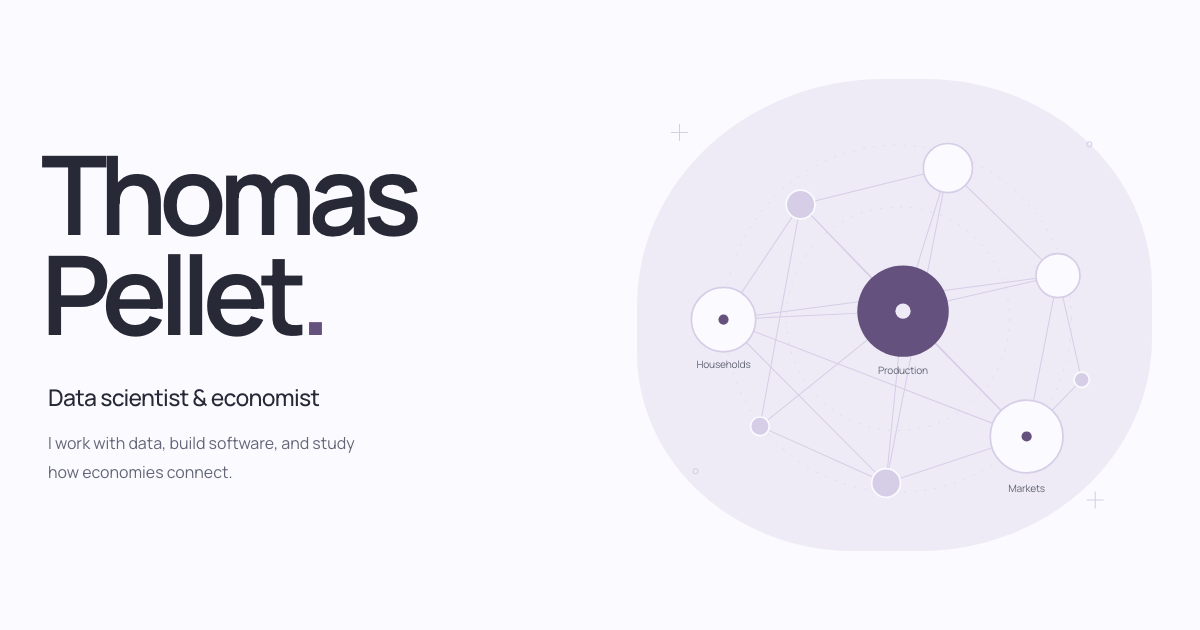
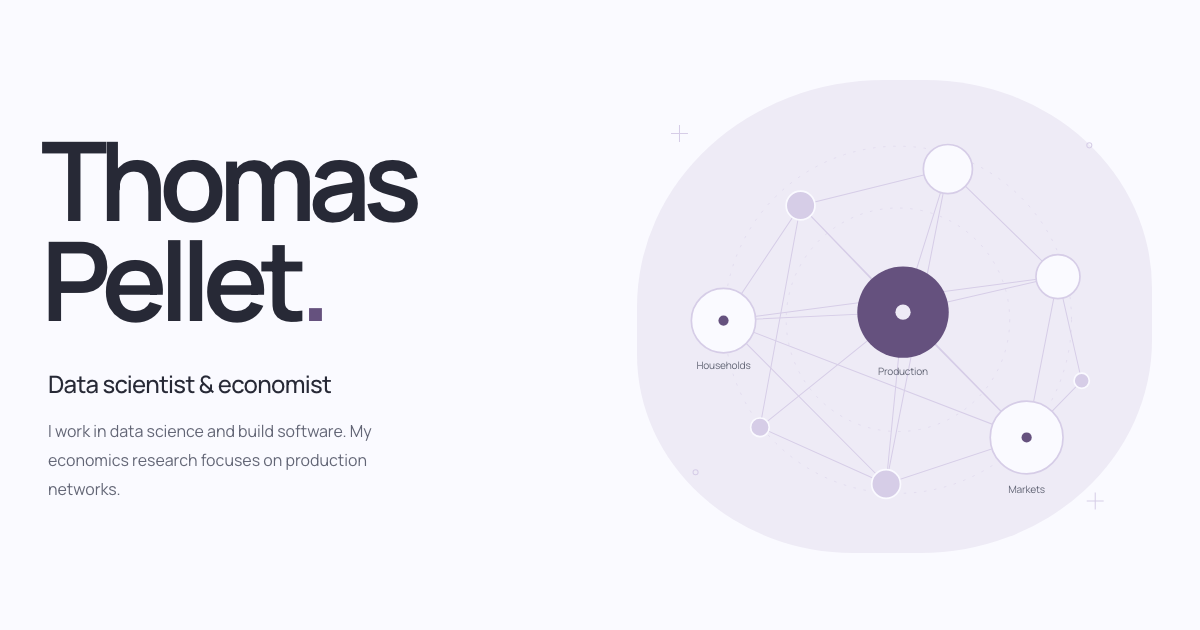
feat: feature Proofwise and revise portfolio copy (site-56m)

diff --git a/themes/minimal-portfolio/static/css/style.css b/themes/minimal-portfolio/static/css/style.css
@@ -21,6 +21,7 @@
   --line: #dedee8;
   --lavender: #eeebf6;
   --sage: #e8eeeb;
+  --rose: #f4e8ed;
   --node: #d6cde7;
   --core: #65517e;
   --font: 'Manrope', -apple-system, BlinkMacSystemFont, 'Segoe UI', sans-serif;
@@ -36,6 +37,7 @@
   --line: #393b4b;
   --lavender: #282536;
   --sage: #242e2d;
+  --rose: #33252c;
   --node: #51455f;
   --core: #cab7eb;
 }
@@ -49,6 +51,7 @@
     --line: #393b4b;
     --lavender: #282536;
     --sage: #242e2d;
+    --rose: #33252c;
     --node: #51455f;
     --core: #cab7eb;
   }
@@ -131,6 +134,13 @@ h2 { font-size: clamp(28px, 3.4vw, 42px); }
 .projects-grid { display: grid; grid-template-columns: 1.15fr 1fr; gap: 36px; align-items: start; }
 .project-card { min-width: 0; }
 .project-visual { height: 280px; display: grid; place-items: center; padding: 28px; border-radius: 16px; overflow: hidden; }
+.project-proofwise { grid-column: 1 / -1; display: grid; grid-template-columns: 1.15fr 1fr; align-items: center; gap: 36px; }
+.project-proofwise .project-visual { background: var(--rose); }
+.proofwise-identity { display: flex; align-items: center; gap: 25px; }
+.proofwise-identity img { width: clamp(110px, 13vw, 168px); height: auto; border-radius: 24%; box-shadow: 0 10px 24px #49182c20; }
+.proofwise-name { display: block; font-size: 28px; font-weight: 650; letter-spacing: -.045em; }
+.proofwise-platform { display: block; margin-top: 8px; color: var(--muted); font-size: 12px; line-height: 1.7; }
+.project-proofwise .project-info { padding: 0 2px; }
 .project-terminal .project-visual { background: var(--lavender); }
 .project-timeline .project-visual { background: var(--sage); }
 .terminal-window { width: 100%; max-width: 460px; background: #272936; color: #f0edf8; border-radius: 10px; box-shadow: 0 10px 24px #17152220; font-family: ui-monospace, SFMono-Regular, Menlo, Consolas, monospace; font-size: 11px; line-height: 1.8; transform: rotate(-2deg); }
@@ -235,6 +245,9 @@ h2 { font-size: clamp(28px, 3.4vw, 42px); }
   .hero-description { font-size: 14px; }
   .hero-actions { gap: 18px; }
   .projects-grid { gap: 24px; }
+  .project-proofwise { gap: 24px; }
+  .proofwise-identity { gap: 18px; }
+  .proofwise-name { font-size: 23px; }
   .project-visual { height: 250px; padding: 24px; }
   .terminal-window { font-size: 9px; }
   .terminal-body { padding: 16px; }
@@ -264,6 +277,10 @@ h2 { font-size: clamp(28px, 3.4vw, 42px); }
   .section-heading h2 { font-size: 28px; max-width: 230px; }
   .section-heading p { font-size: 12px; max-width: 220px; }
   .projects-grid { grid-template-columns: 1fr; gap: 38px; }
+  .project-proofwise { display: block; }
+  .project-proofwise .project-info { padding-top: 23px; }
+  .proofwise-identity img { width: 130px; }
+  .proofwise-name { font-size: 26px; }
   .project-visual { height: 265px; padding: 28px; }
   .terminal-window { font-size: 10px; max-width: 400px; }
   .project-info h3 { font-size: 26px; }
@@ -303,6 +320,8 @@ h2 { font-size: clamp(28px, 3.4vw, 42px); }
   .hero-actions .btn { padding: 12px 14px; gap: 10px; font-size: 12px; }
   .hero-actions .text-link { font-size: 12px; }
   .project-visual { height: 230px; padding: 17px; }
+  .proofwise-identity img { width: 108px; }
+  .proofwise-name { font-size: 23px; }
   .terminal-window { font-size: 9px; }
   .terminal-body { padding: 14px; }
   .contact-link { font-size: 17px; }
@@ -325,7 +344,7 @@ h2 { font-size: clamp(28px, 3.4vw, 42px); }
   .site-header, .site-footer, .hero-actions, .network-toggle, .publication-toolbar, .resume-actions, .project-visual { display: none !important; }
   body { background: white; color: black; }
   .main-content { max-width: none; padding: 0; }
-  .hero, .research-section, .about-section, .projects-grid { display: block; }
+  .hero, .research-section, .about-section, .projects-grid, .project-proofwise { display: block; }
   .network-figure { display: none; }
   a { text-decoration: underline; }
   .project-card, .publication-entry { break-inside: avoid; margin-bottom: 24px; }

diff --git a/layouts/partials/project.html b/layouts/partials/project.html
@@ -1,12 +1,14 @@
 <article class="project-card project-{{ .visual }}">
   <div class="project-visual" aria-hidden="true">
-    {{ if eq .visual "terminal" }}
+    {{ if eq .visual "proofwise" }}
+    <div class="proofwise-identity"><img src="{{ "images/proofwise-icon.png" | relURL }}" alt="" width="1024" height="1024" loading="lazy"><div><span class="proofwise-name">Proofwise</span><span class="proofwise-platform">N-of-1 experiments<br>for iPhone</span></div></div>
+    {{ else if eq .visual "terminal" }}
     <div class="terminal-window">
       <div class="terminal-top"><span class="terminal-dots"><i></i><i></i><i></i></span><span>jevify</span><span>⌘</span></div>
-      <div class="terminal-body"><div><span class="terminal-prompt">$</span> cargo test 2&gt;&amp;1 | jevify why</div><div class="terminal-output">Compiling buildfail…</div><div class="terminal-output">300 warnings, one error.</div><div class="terminal-result"><span>›</span> error[E0425]: cannot find value<br><span class="terminal-indent">`conifg` in this scope</span></div><div class="terminal-hint">The line you were looking for.</div></div>
+      <div class="terminal-body"><div><span class="terminal-prompt">$</span> cargo test 2&gt;&amp;1 | jevify why</div><div class="terminal-output">Compiling buildfail…</div><div class="terminal-output">300 warnings, one error.</div><div class="terminal-result"><span>›</span> error[E0425]: cannot find value<br><span class="terminal-indent">`conifg` in this scope</span></div><div class="terminal-hint">Build error</div></div>
     </div>
     {{ else }}
-    <div class="edit-timeline"><div class="timeline-top"><span>DaVinci Resolve</span><span class="timeline-badge">MCP</span></div><div class="timeline-ruler"><span>00:00</span><span>00:15</span><span>00:30</span><span>00:45</span></div><div class="timeline-track track-video"><span>V1</span><i></i><i></i><i></i></div><div class="timeline-track track-audio"><span>A1</span><i></i></div><div class="timeline-playhead"></div><div class="timeline-command">Organize. Edit. Render.</div></div>
+    <div class="edit-timeline"><div class="timeline-top"><span>DaVinci Resolve</span><span class="timeline-badge">MCP</span></div><div class="timeline-ruler"><span>00:00</span><span>00:15</span><span>00:30</span><span>00:45</span></div><div class="timeline-track track-video"><span>V1</span><i></i><i></i><i></i></div><div class="timeline-track track-audio"><span>A1</span><i></i></div><div class="timeline-playhead"></div><div class="timeline-command">Editing with an AI assistant</div></div>
     {{ end }}
   </div>
   <div class="project-info">
@@ -14,6 +16,6 @@
     <h3><a href="{{ .url }}">{{ .name }}<svg class="icon" aria-hidden="true"><use href="#icon-external"/></svg></a></h3>
     <p>{{ .description }}</p>
     <ul class="project-tech" aria-label="Technologies">{{ range .tech }}<li>{{ . }}</li>{{ end }}</ul>
-    <a class="text-link" href="{{ .url }}">Explore {{ .name }} on GitHub</a>
+    <a class="text-link" href="{{ .url }}">{{ .link_label }}</a>
   </div>
 </article>

diff --git a/themes/minimal-portfolio/layouts/index.html b/themes/minimal-portfolio/layouts/index.html
@@ -3,7 +3,7 @@
   <div class="hero-copy">
     <h1 id="hero-title"><span>Thomas </span><span>Pellet<span class="name-period" aria-hidden="true">.</span></span></h1>
     <p class="hero-role">Data scientist &amp; economist</p>
-    <p class="hero-description">I work with data, build software, and study how economies connect.</p>
+    <p class="hero-description">I work in data science and build software. My economics research focuses on production networks.</p>
     <div class="hero-actions"><a class="btn btn-primary" href="#software">Explore my work<svg class="icon" aria-hidden="true"><use href="#icon-arrow"/></svg></a><a class="text-link" href="{{ "resume/" | relURL }}">View résumé</a></div>
     <p class="hero-note">Cubist Systematic Strategies<br>PhD in Economics, Northwestern University</p>
   </div>
@@ -11,7 +11,7 @@
 </section>
 
 <section class="software-section" id="software" aria-labelledby="software-title">
-  <div class="section-heading"><div><h2 id="software-title">Software with a purpose.</h2><p>Tools for the command line and the cutting room.</p></div><a class="text-link" href="{{ "projects/" | relURL }}">All software<svg class="icon" aria-hidden="true"><use href="#icon-arrow"/></svg></a></div>
+  <div class="section-heading"><div><h2 id="software-title">Software.</h2><p>An iPhone app, command-line tools, and contributions to DaVinci Resolve.</p></div><a class="text-link" href="{{ "projects/" | relURL }}">All software<svg class="icon" aria-hidden="true"><use href="#icon-arrow"/></svg></a></div>
   <div class="projects-grid">{{ range hugo.Data.projects }}{{ partial "project.html" . }}{{ end }}</div>
 </section>
 

diff --git a/tests/site.spec.ts b/tests/site.spec.ts
@@ -51,6 +51,24 @@ test('resume links deliver a real PDF', async ({ page, request, baseURL }) => {
   expect((await response.body()).subarray(0, 5).toString()).toBe('%PDF-');
 });
 
+test('Proofwise is featured with its App Store link and local artwork', async ({ page, request, baseURL }) => {
+  for (const route of ['', 'projects/']) {
+    await page.goto(new URL(route, baseURL).href);
+    const card = page.locator('.project-proofwise');
+    await expect(card).toBeVisible();
+    await expect(page.locator('.project-card').first()).toHaveClass(/project-proofwise/);
+    await expect(card.locator('h3')).toHaveText('Proofwise');
+    const storeLink = card.getByRole('link', { name: 'View Proofwise on the App Store' });
+    await expect(storeLink).toHaveAttribute('href', 'https://apps.apple.com/us/app/proofwise/id6791989723');
+    const artwork = card.locator('img');
+    await artwork.scrollIntoViewIfNeeded();
+    await expect.poll(() => artwork.evaluate((image: HTMLImageElement) => image.complete && image.naturalWidth > 0)).toBe(true);
+    const image = await request.get(new URL((await artwork.getAttribute('src'))!, page.url()).href);
+    expect(image.status()).toBe(200);
+    expect(image.headers()['content-type']).toContain('image/png');
+  }
+});
+
 test('theme selection persists after navigation and reload', async ({ page, baseURL }) => {
   await page.goto(baseURL!);
   const before = await page.locator('html').getAttribute('data-theme');

diff --git a/layouts/_default/projects.html b/layouts/_default/projects.html
@@ -1,8 +1,8 @@
 {{ define "main" }}
 <article class="single-page">
-  <div class="page-heading"><h1>{{ .Title }}<span class="name-period">.</span></h1><p>Practical tools, from finding the right line in a log to connecting AI assistants with a creative workflow.</p></div>
+  <div class="page-heading"><h1>{{ .Title }}<span class="name-period">.</span></h1><p>Software I’ve built and open-source projects I contribute to.</p></div>
   <h2 class="sr-only">Public software</h2>
   <div class="projects-grid">{{ range hugo.Data.projects }}{{ partial "project.html" . }}{{ end }}</div>
-  <div class="page-postscript"><p>More code, experiments, and contributions live on GitHub.</p><a class="text-link" href="{{ .Site.Params.github }}">Visit my GitHub profile<svg class="icon" aria-hidden="true"><use href="#icon-external"/></svg></a></div>
+  <div class="page-postscript"><p>You can find more of my code on GitHub.</p><a class="text-link" href="{{ .Site.Params.github }}">GitHub profile<svg class="icon" aria-hidden="true"><use href="#icon-external"/></svg></a></div>
 </article>
 {{ end }}

diff --git a/layouts/404.html b/layouts/404.html
@@ -1,3 +1,3 @@
 {{ define "main" }}
-<section class="not-found"><p class="not-found-code">404</p><h1>This page took a different path.</h1><p>The link may have changed. You can find my software, research, and résumé from the home page.</p><a class="btn btn-primary" href="{{ .Site.Home.RelPermalink }}">Back to home<svg class="icon" aria-hidden="true"><use href="#icon-arrow"/></svg></a></section>
+<section class="not-found"><p class="not-found-code">404</p><h1>Page not found.</h1><p>You can find my software, research, and résumé on the home page.</p><a class="btn btn-primary" href="{{ .Site.Home.RelPermalink }}">Back to home<svg class="icon" aria-hidden="true"><use href="#icon-arrow"/></svg></a></section>
 {{ end }}

diff --git a/layouts/_default/baseof.html b/layouts/_default/baseof.html
@@ -45,7 +45,7 @@
 
   <footer class="site-footer" id="contact">
     <div class="contact-section">
-      <div><h2>Get in touch.</h2><p>For conversations about data, research, or software.</p></div>
+      <div><h2>Get in touch.</h2><p>You can reach me by email or on LinkedIn.</p></div>
       {{ with .Site.Params.email }}<a class="contact-link" href="mailto:{{ . }}">{{ . }}<svg class="icon" aria-hidden="true"><use href="#icon-external"/></svg></a>{{ end }}
     </div>
     <div class="footer-bottom">

diff --git a/DESIGN.md b/DESIGN.md
@@ -65,3 +65,9 @@ All content and navigation remain usable without JavaScript. Keyboard focus, red
 GitHub Pages remains the active host, with a pinned Hugo build and browser checks before deployment. Vercel configuration and Cloudflare Pages instructions use host-specific base URLs. Internal URLs are generated by Hugo so a move from the Pages subpath to a root domain does not require rewriting page content. Account connections are separate from configuration.
 
 Pre-commit UBS scanning of authored browser code exits successfully. Scanning the unmodified minified Motion distribution exits 1: its 145 loose-comparison findings are `typeof` string comparisons, intentional null/undefined checks, and numeric remainders. Its seven reported undeclared assignments are not reproduced by TypeScript symbol resolution: every identifier assignment binds to a declared symbol. These vendor findings were reviewed as false positives; scanner rules were not changed, and the upstream distribution was kept intact.
+
+## 2026-10-07 — Proofwise and personal voice
+
+Proofwise leads the software section as a released iPhone app, linked directly to its public App Store listing. Its icon comes from the app’s own asset catalog. The portfolio describes experiment tracking and estimates of uncertainty without promising medical benefits or causal certainty. A full-width introductory card gives it room, followed by the two developer-tool cards; narrow screens use one column.
+
+The wording review used the digital-double voice guide, original professional and technical writing, and direct editorial corrections. Astra at xhigh reviewed all public text and the resulting changes. The revision favors definitions and concrete work over slogans, preserves upstream project credit, and moves educational details into the background paragraph. Wording remains an editorial approximation for the owner to assess.

diff --git a/content/_index.md b/content/_index.md
@@ -1,10 +1,10 @@
 ---
 title: "Home"
-description: "Thomas Pellet is a data scientist and economist, with a PhD from Northwestern University. Explore his public software and economics research."
+description: "Thomas Pellet’s software and economics research, including Proofwise, command-line tools, and work on production networks."
 ---
 
-I’m a data scientist at Cubist Systematic Strategies and hold a PhD in Economics from Northwestern University.
+I’m a data scientist at Cubist Systematic Strategies.
 
-Previously, I worked at Bloomberg, the World Bank, and the Peterson Institute for International Economics, where I collaborated with Olivier Blanchard on macroeconomic policy research.
+Before that, I worked at Bloomberg, the World Bank, and the Peterson Institute for International Economics. At Peterson, I worked with Olivier Blanchard on macroeconomic policy research.
 
-My education spans public policy at Sciences Po Paris, business at HEC Paris, and mathematics at UPMC.
+I have a PhD in Economics from Northwestern University. I also studied public policy at Sciences Po Paris, management at HEC Paris, and mathematics at UPMC.

diff --git a/CHANGELOG.md b/CHANGELOG.md
@@ -39,3 +39,10 @@
 - Added TypeScript and Chromium, mobile, and WebKit browser gates for both GitHub Pages and root-domain output.
 - Pinned Hugo extended 0.165.0 and prepared Vercel and Cloudflare Pages hosting configuration.
 - Updated official GitHub Actions to releases using Node.js 24.
+
+## 2026-10-07 — Proofwise and wording review
+
+- Featured Proofwise on the home and software pages with its app icon and verified App Store link.
+- Revised public copy following an Astra xhigh review against original writing and editorial feedback: concrete definitions, work before credentials, and direct descriptions of the software.
+- Corrected the tax-policy research summary to describe estimated effects rather than realized causal effects.
+- Added browser coverage for Proofwise’s placement, artwork, and App Store link.

diff --git a/content/gallery.md b/content/gallery.md
@@ -3,6 +3,6 @@ title: "Gallery"
 description: "Photography and film by Thomas Pellet."
 ---
 
-Photography and film are part of my life outside research and software. I haven’t published a collection here yet.
+I also take photographs and make films. I haven’t published a collection here yet.
 
-In the meantime, my public software includes contributions to tools for working with DaVinci Resolve. [Explore the repository](https://github.com/tpellet/davinci-resolve-mcp).
+I contribute to tools for working with DaVinci Resolve. [DaVinci Resolve MCP on GitHub](https://github.com/tpellet/davinci-resolve-mcp).

diff --git a/content/resume.md b/content/resume.md
@@ -4,4 +4,4 @@ layout: "resume"
 description: "Thomas Pellet’s résumé: data science, economics research, and education. View or download the PDF."
 ---
 
-Experience in data science and economic research, with a PhD in Economics from Northwestern University.
+My experience in data science and economics, with details of my education and publications.
